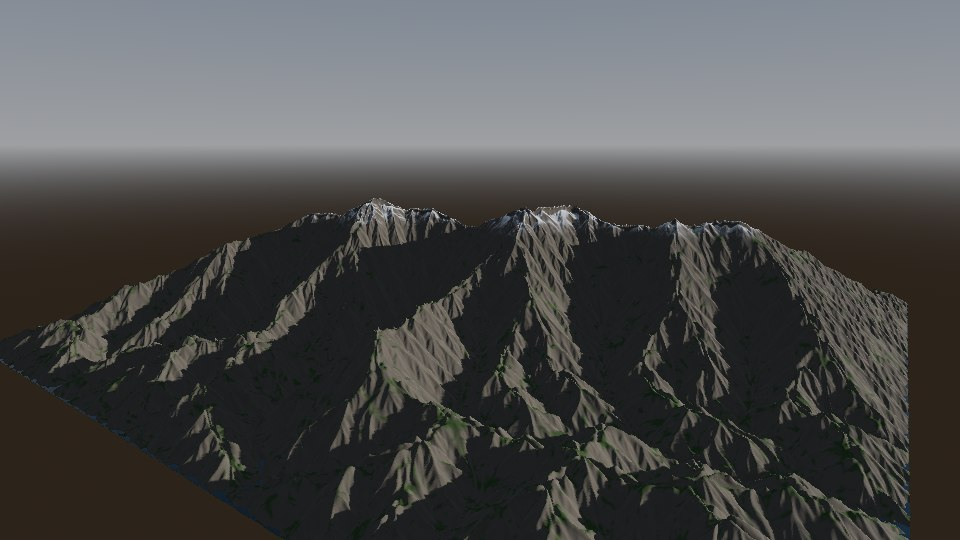
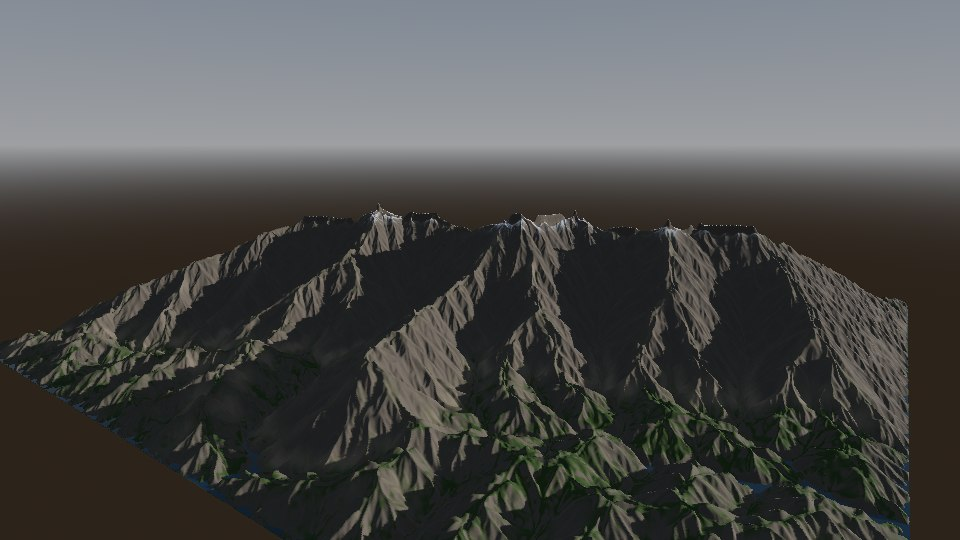
README: terrain geology, river network, irregular crests
Claude-Session: https://claude.ai/code/session_019a7Xd2PZ5gvYQ3NZ7og5rU

diff --git a/docs/REFERENCES.md b/docs/REFERENCES.md
@@ -12,7 +12,7 @@ Papers, talks and engines the fork's features follow. Code taken from other proj
 | Texture filtering | Akenine-Möller et al., *Texture Level of Detail Strategies for Real-Time Ray Tracing*, Ray Tracing Gems, 2019<br>Akenine-Möller et al., *Improved Shader and Texture Level of Detail Using Ray Cones*, JCGT 2021 |
 | Cloth tearing | NVIDIA, PhysX 2.8 tearable cloth (`NX_CLF_TEARABLE`, `tearFactor`)<br>O'Brien, Hodgins, *Graphical Modeling and Animation of Brittle Fracture*, SIGGRAPH 1999<br>Metaaphanon, Bando, Chen, Nishita, *Simulation of Tearing Cloth with Frayed Edges*, Pacific Graphics 2009<br>Macklin, Müller, Chentanez, *XPBD: Position-Based Simulation of Compliant Constrained Dynamics*, MIG 2016 |
 | Plant placement | van Muijden, *GPU-Based Run-Time Procedural Placement in Horizon: Zero Dawn*, GDC 2017<br>Bridson, *Fast Poisson Disk Sampling in Arbitrary Dimensions*, SIGGRAPH 2007 sketches<br>Carrier, *Procedural World Generation of Far Cry 5*, GDC 2018<br>Wohllaib, *Procedural Grass in Ghost of Tsushima*, GDC 2021<br>Jahrmann, Wimmer, *Responsive Real-Time Grass Rendering for General 3D Scenes*, I3D 2017 |
-| Terrain generation | Cordonnier et al., *Large Scale Terrain Generation from Tectonic Uplift and Fluvial Erosion*, Computer Graphics Forum 35, 2016<br>Braun, Willett, *A Very Efficient O(n), Implicit and Parallel Method to Solve the Stream Power Equation Governing Fluvial Incision and Landscape Evolution*, Geomorphology 180, 2013<br>Schott et al., *Large-scale Terrain Authoring through Interactive Erosion Simulation*, ACM TOG 42, 2023<br>Clay John, *Eroded Terrain Noise*, Shadertoy, 2018<br>Fewes, *Terrain Erosion Noise*, Shadertoy, 2023<br>Johansen, *Fast and Gorgeous Erosion Filter*, blog, 2026<br>Kass, Witkin, *Analyzing Oriented Patterns*, CVGIP 37, 1987<br>Priority-Flood and multiple flow direction: see Terrain analysis |
+| Terrain generation | Cordonnier et al., *Large Scale Terrain Generation from Tectonic Uplift and Fluvial Erosion*, Computer Graphics Forum 35, 2016<br>Braun, Willett, *A Very Efficient O(n), Implicit and Parallel Method to Solve the Stream Power Equation Governing Fluvial Incision and Landscape Evolution*, Geomorphology 180, 2013<br>Schott et al., *Large-scale Terrain Authoring through Interactive Erosion Simulation*, ACM TOG 42, 2023<br>Clay John, *Eroded Terrain Noise*, Shadertoy, 2018<br>Fewes, *Terrain Erosion Noise*, Shadertoy, 2023<br>Johansen, *Fast and Gorgeous Erosion Filter*, blog, 2026<br>Kass, Witkin, *Analyzing Oriented Patterns*, CVGIP 37, 1987<br>Heimsath et al., *The Soil Production Function and Landscape Equilibrium*, Nature 388, 1997<br>Wobus et al., *Tectonics from Topography: Procedures, Promise, and Pitfalls*, GSA Special Paper 398, 2006<br>Montgomery et al., *Distribution of Bedrock and Alluvial Channels in Forested Mountain Drainage Basins*, Nature 381, 1996<br>Leopold, Maddock, *The Hydraulic Geometry of Stream Channels and Some Physiographic Implications*, USGS Professional Paper 252, 1953<br>Hack, *Studies of Longitudinal Stream Profiles in Virginia and Maryland*, USGS Professional Paper 294-B, 1957<br>Priority-Flood and multiple flow direction: see Terrain analysis |
 | Terrain analysis | Horn, *Hill Shading and the Reflectance Map*, Proc. IEEE 69, 1981<br>Zevenbergen, Thorne, *Quantitative Analysis of Land Surface Topography*, Earth Surface Processes and Landforms 12, 1987<br>Barnes, Lehman, Mulla, *Priority-Flood: An Optimal Depression-Filling and Watershed-Labeling Algorithm for Digital Elevation Models*, Computers and Geosciences 62, 2014<br>Freeman, *Calculating Catchment Area with Divergent Flow Based on a Regular Grid*, Computers and Geosciences 17, 1991<br>Quinn, Beven, Chevallier, Planchon, *The Prediction of Hillslope Flow Paths for Distributed Hydrological Modelling Using Digital Terrain Models*, Hydrological Processes 5, 1991<br>Beven, Kirkby, *A Physically Based, Variable Contributing Area Model of Basin Hydrology*, Hydrological Sciences Bulletin 24, 1979<br>Felzenszwalb, Huttenlocher, *Distance Transforms of Sampled Functions*, Theory of Computing 8, 2012 |
 | Hair simulation | Petrovic, Henne, Anderson, *Volumetric Methods for Simulation and Rendering of Hair*, Pixar Technical Memo 06-08, 2005 |
 | Instanced animation | Dudash, *Animated Crowd Rendering*, GPU Gems 3, chapter 2, 2007 |

diff --git a/README.md b/README.md
@@ -16,7 +16,7 @@ Berlenga is a Godot 4 fork with Vulkan path tracing and DLSS Ray Reconstruction,
 - **Faster convergence**: light visibility memory and a radiance cache.
 - **Materials**: clearcoat, back lighting, thin-glass transmission, subsurface scattering; textures filter like raster.
 - **Hair**: fibre shading, strand grooms, TressFX strand simulation with body collision.
-- **Terrain**: mountain ranges raised and eroded per seed; non-destructive height brushes; terrain data maps.
+- **Terrain**: mountain ranges raised and eroded per seed, with geology and river networks; non-destructive height brushes; terrain data maps.
 - **Snow**: a snowpack from the weather map that falls, settles, melts, slides and drifts, covering materials raster and path traced.
 - **Vegetation**: biome plant placement from terrain maps; grass in the weather's wind; GPU-placed instances seen by path tracing; per-instance bones for plants in the wind.
 - **Weather**: one weather map for wind, storms, rain, wet surfaces and puddles, driving water, cloth and hair.
@@ -226,11 +226,13 @@ Each feature that changes the look or the cost can be turned off with the settin
 </details>
 
 ### Terrain
-- **Mountain generation** (`TerrainGenerator3D`: `uplift`, `ranges`, `erodibility`, `critical_slope`, `detail_wavelength`, `detail_octaves`): raises ranges from an uplift map, Path3D ranges and noise, then erodes them to equilibrium with stream power erosion; branching gullies come from an erosion filter computed per point, so tiles join exactly, and fade on crests so silhouettes stay clean; the same for a seed; writes into Terrain3D or a HeightMapShape3D.
+- **Mountain generation** (`TerrainGenerator3D`: `uplift`, `ranges`, `erodibility`, `critical_slope`, `detail_wavelength`, `detail_octaves`, `detail_crest`): raises ranges from an uplift map, Path3D ranges and noise, then erodes them to equilibrium with stream power erosion; branching gullies come from an erosion filter computed per point, so tiles join exactly; on crests gullies keep part of their depth and a ridged noise adds irregular pinnacles; the same for a seed; writes into Terrain3D or a HeightMapShape3D.
+- **Geology maps** (`terrain_geology()` in shaders): soil, bare rock and scree from the erosion run.
+- **River network** (`build_river_paths()`): rivers with widths and discharges, made into joined `PhysXRiver3D` paths.
 - **Terrain deformation** (`TerrainDeformer3D`, `TerrainBrush3D`): non-destructive height brushes (rivers, craters, plots) over Terrain3D or a height map; moving a brush restores the ground.
 - **Terrain data maps** (`TerrainDataMap3D`): bakes slope, curvature, water flow, wetness, water depth and distance to water around a point, for placing plants and for materials; a 512 map bakes once in about 0.2 s.
 
-<details><summary>Images: mountain generation, terrain data maps</summary>
+<details><summary>Images: mountain generation, crests, geology, terrain data maps</summary>
 
 ![Generated mountain range, shaded relief with rivers](docs/media/terrain-generator-map.jpg)
 
@@ -244,9 +246,13 @@ Each feature that changes the look or the cost can be turned off with the settin
 
 *Mountain generation up close, raster and path traced.*
 
-![Summit crests before and after detail fades on crests](docs/media/terrain-crest.jpg)
+![Summit crests: a regular comb before, irregular crests now](docs/media/terrain-crest.jpg)
 
-*Crests: before, a thin comb along the summits; after, clean silhouettes.*
+*Crests: before, a thin regular comb along the summits; now, irregular crests and pinnacles.*
+
+![Geology map with soil, rock, scree and rivers, and the range path traced and coloured from it](docs/media/terrain-geology.jpg)
+
+*Geology: soil green, bare rock grey, scree ochre, rivers blue; the shader colours the range from the map.*
 
 ![Slope, curvature, flow, wetness and distance-to-water maps of a valley, and the valley coloured from them](docs/media/terrain-data-maps.jpg)
 

diff --git a/changelog.d/readme-terrain-geology.md b/changelog.d/readme-terrain-geology.md
@@ -1,0 +1,3 @@
+### Changed
+
+- README: terrain geology maps and river network; irregular crests; refreshed terrain images.
